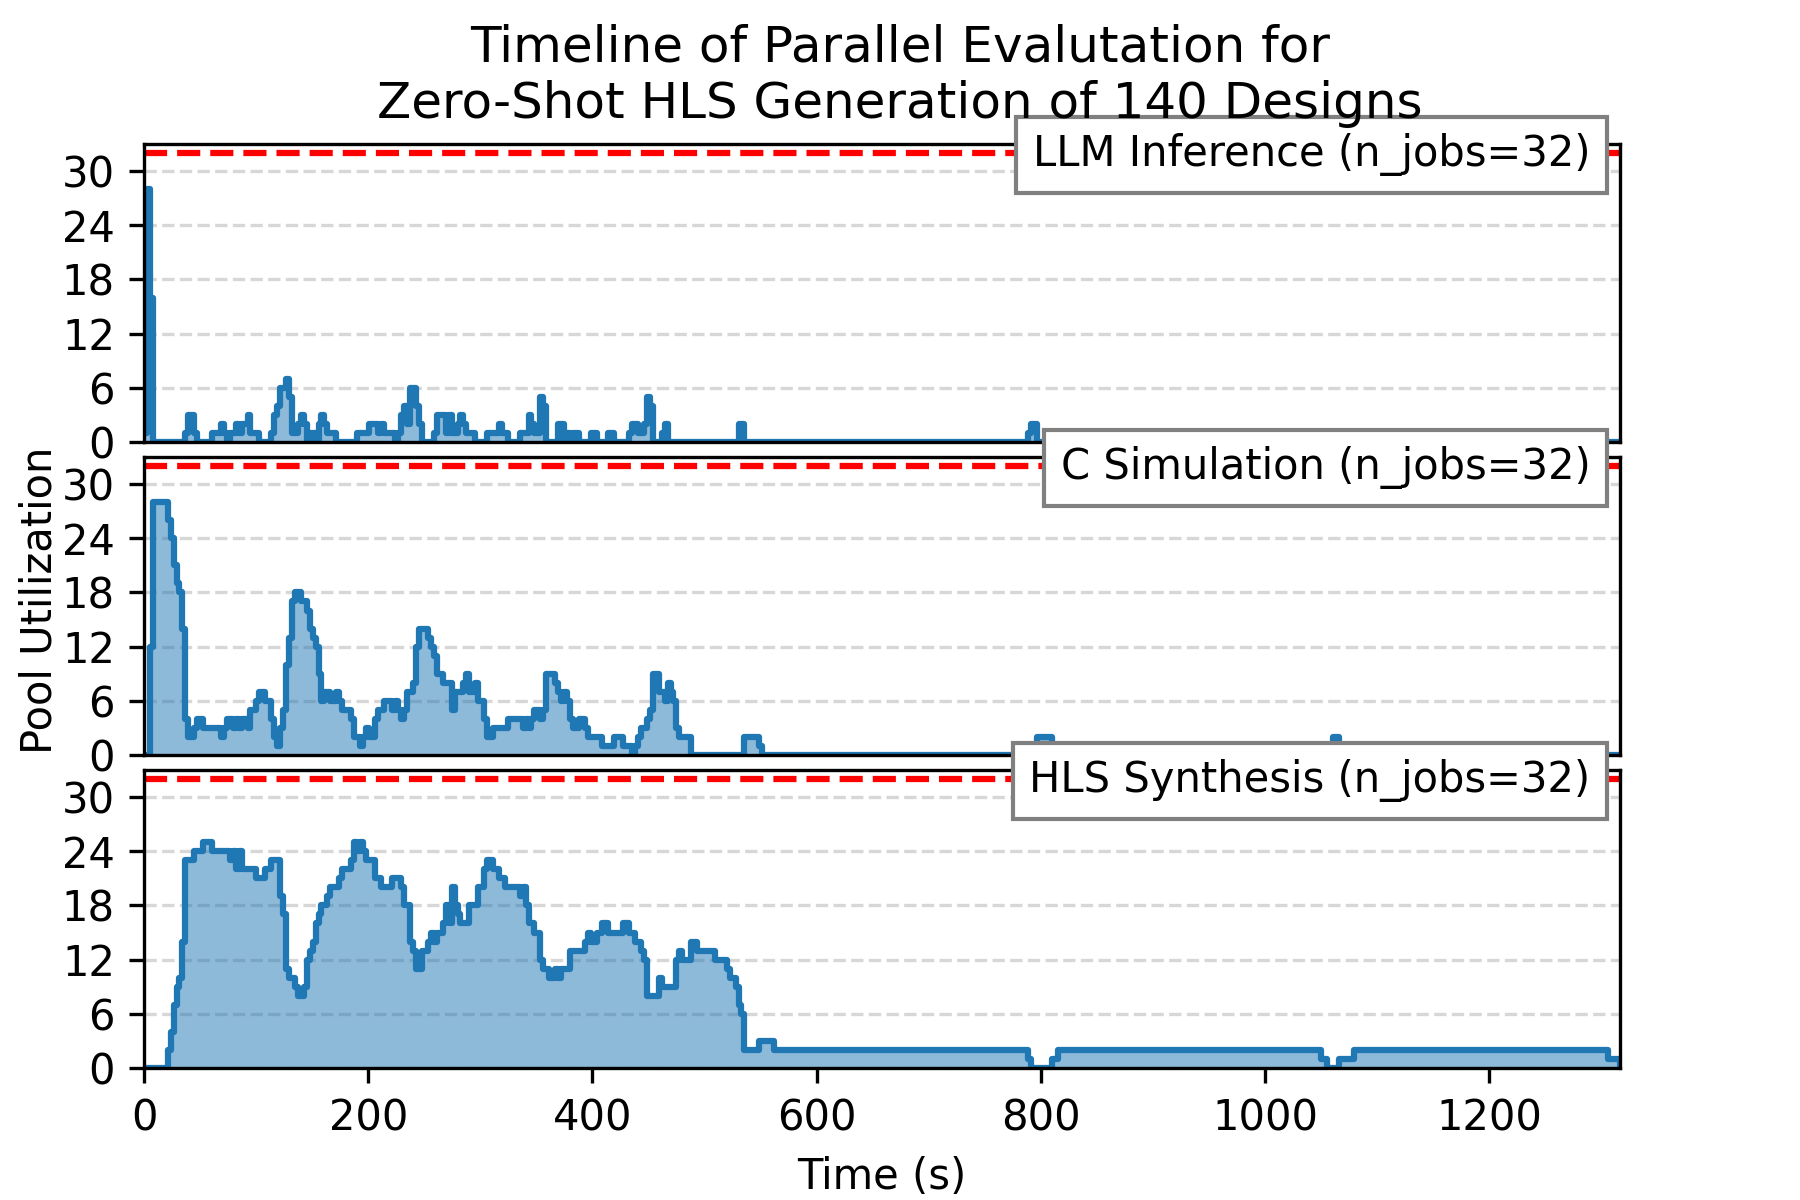
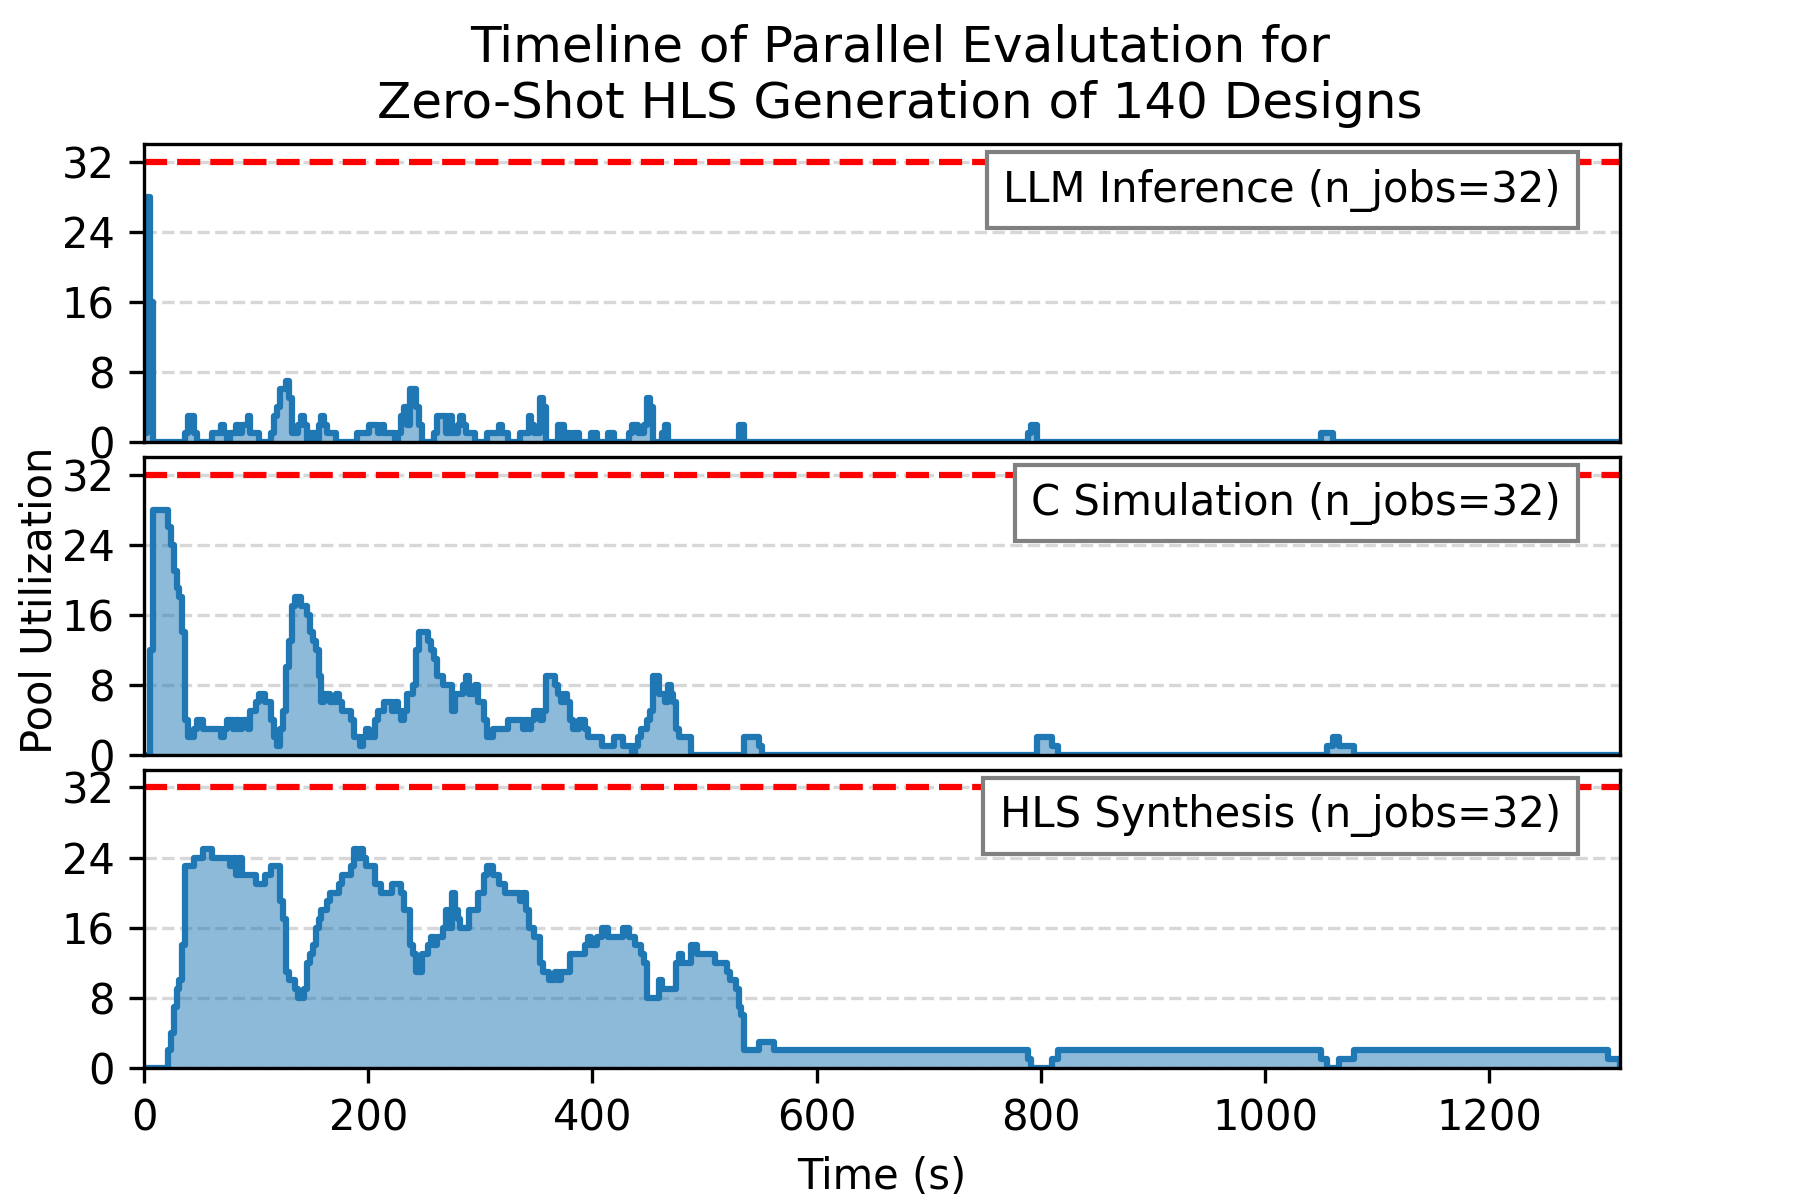
tweak figure

diff --git a/hls_eval_experiments/test_openrouter/analyze_timeline.py b/hls_eval_experiments/test_openrouter/analyze_timeline.py
@@ -304,12 +304,12 @@ def build_timeline_plot(df_exec: pd.DataFrame, n_steps: int = 50) -> Figure:
 
         # add text box in upper irght corner with Pool name
         ax.text(
-            0.98,
-            pool_size[pool_type] - 0.2,
+            0.96,
+            pool_size[pool_type] - 0.8,
             # 0.8,
             f"{pool_labels[pool_type]} (n_jobs={pool_size[pool_type]})",
             horizontalalignment="right",
-            verticalalignment="center",
+            verticalalignment="top",
             # combined axes coordinates
             transform=blended_transform_factory(ax.transAxes, ax.transData),
             bbox=dict(facecolor="white", alpha=1.0, edgecolor="gray", linewidth=1.0),
@@ -335,7 +335,7 @@ def build_timeline_plot(df_exec: pd.DataFrame, n_steps: int = 50) -> Figure:
             ax.set_xticks([])
             ax.set_xticklabels([])
 
-        ax.set_ylim(0, pool_size[pool_type] + 1)
+        ax.set_ylim(0, pool_size[pool_type] + 2)
         ax.hlines(
             y=pool_size[pool_type],
             xmin=min_time,
@@ -343,7 +343,7 @@ def build_timeline_plot(df_exec: pd.DataFrame, n_steps: int = 50) -> Figure:
             color="red",
             linestyle="--",
         )
-        ax.set_yticks(np.arange(0, pool_size[pool_type] + 1, step=6))
+        ax.set_yticks(np.arange(0, pool_size[pool_type] + 1, step=8))
         # ax.set_yticklabels(
         #     [None]
         #     + [f"{x:.0f}" for x in np.arange(1, pool_size[pool_type] + 1, step=6)]
